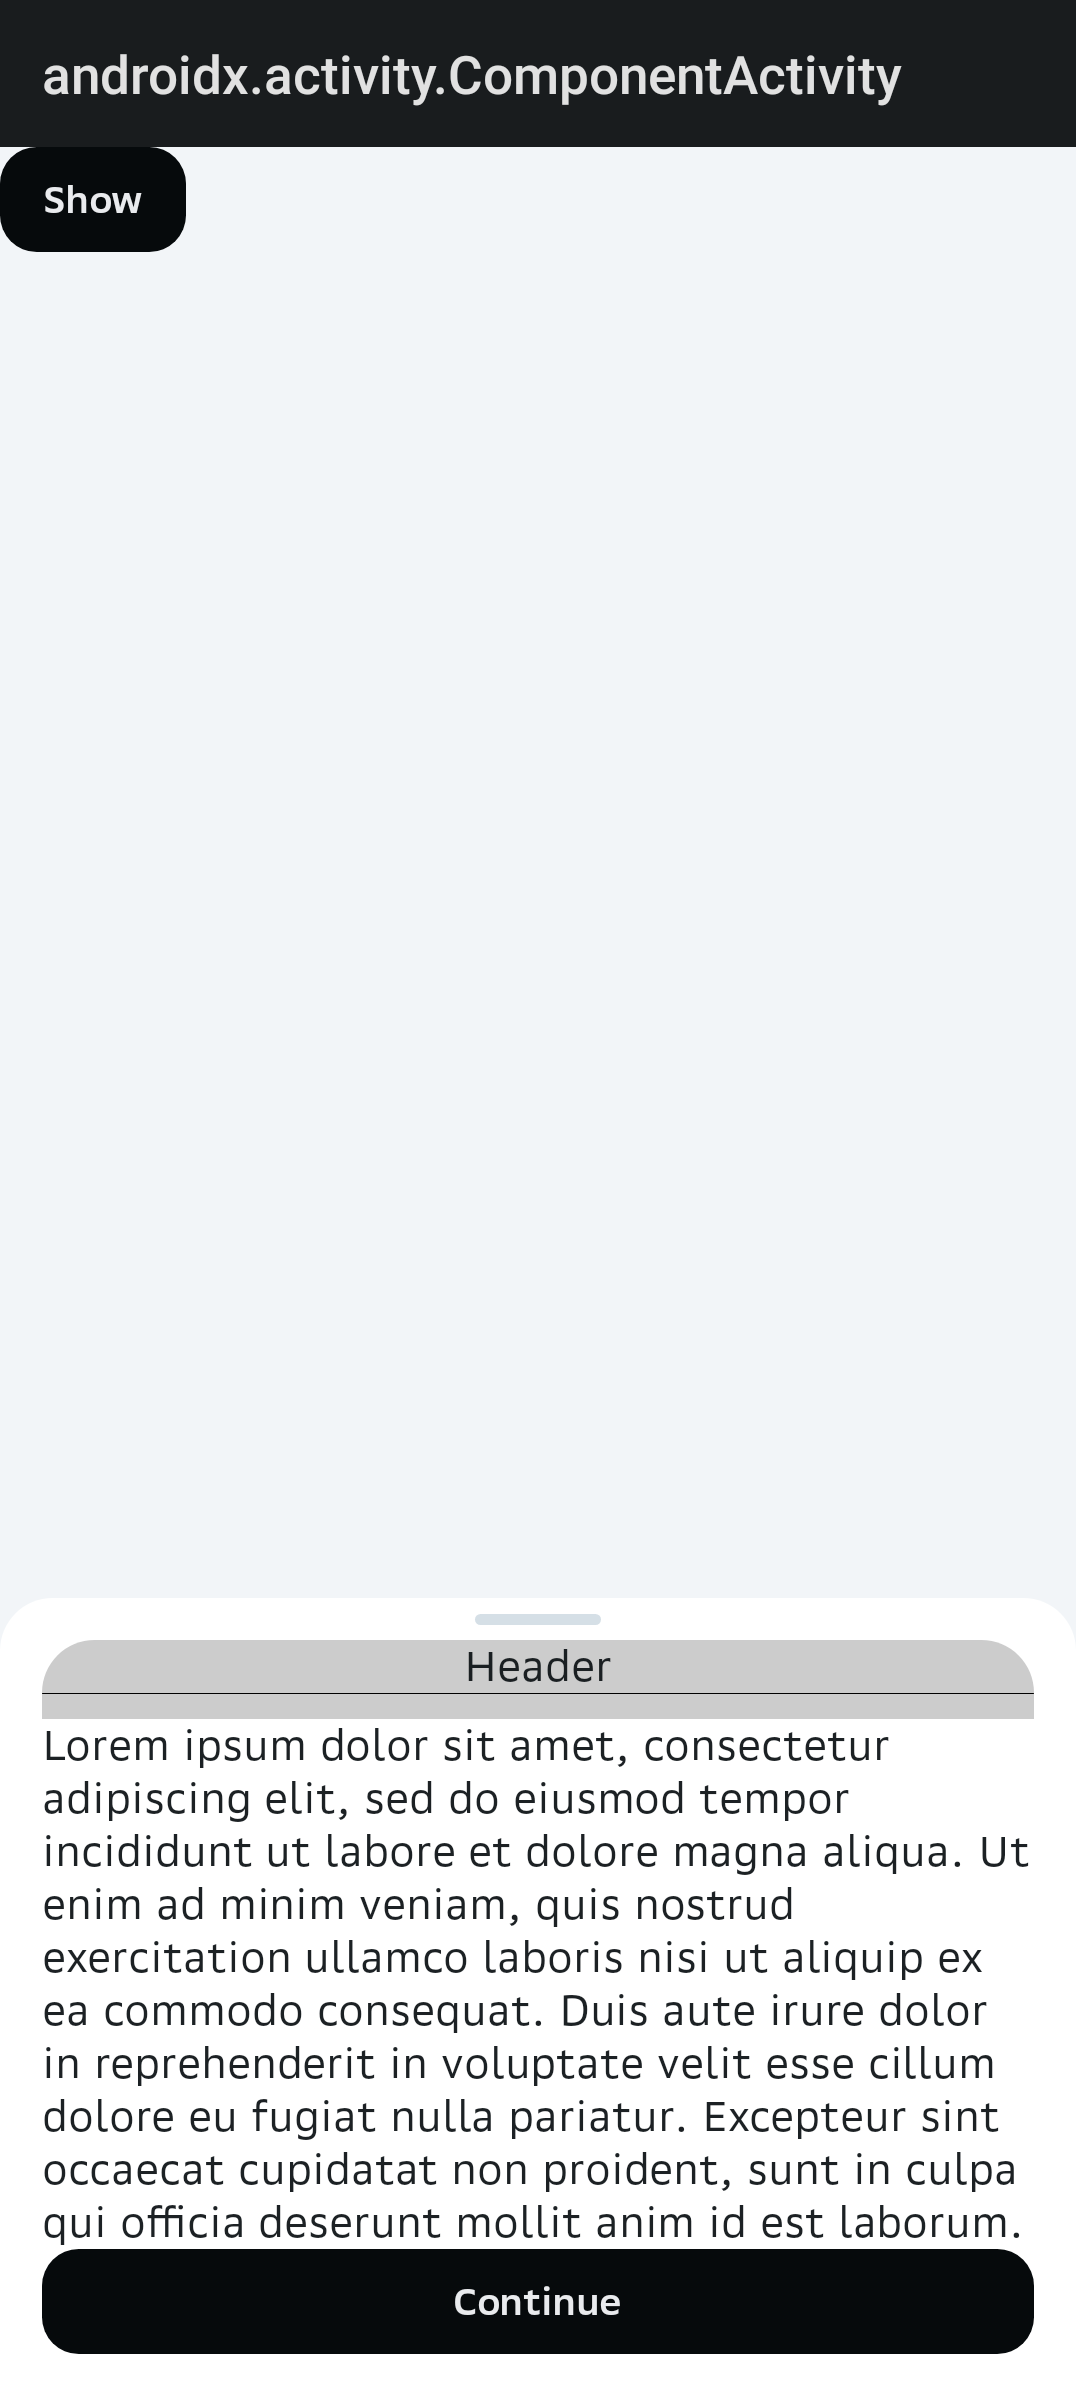
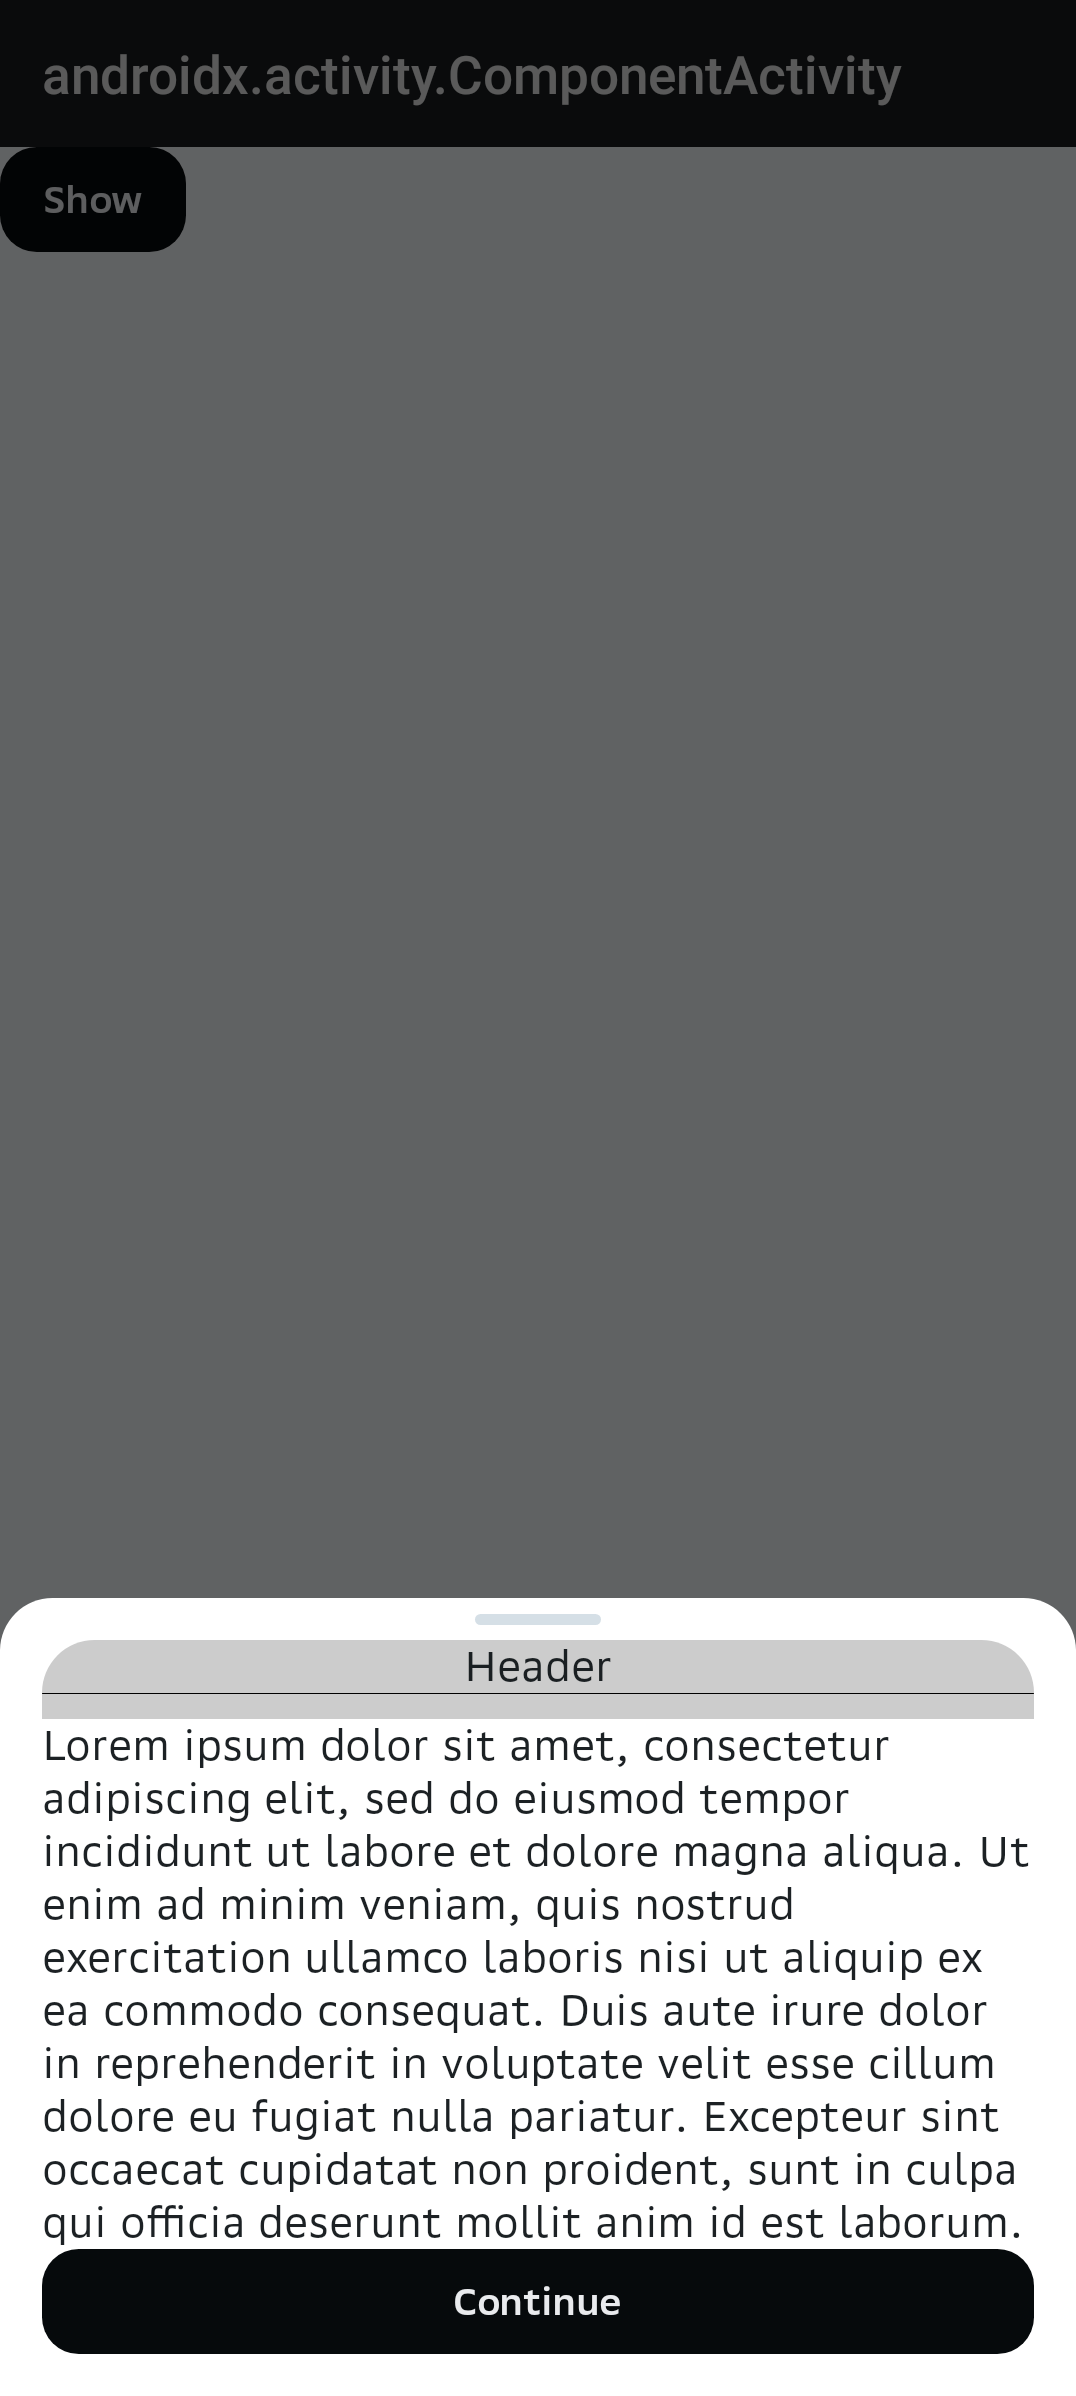
test-update-screenshots

diff --git a/tokens/sdds-finai-compose/src/androidUnitTest/kotlin/com/sdds/finai/ThemeUtils.kt b/tokens/sdds-finai-compose/src/androidUnitTest/kotlin/com/sdds/finai/ThemeUtils.kt
@@ -11,6 +11,7 @@ import androidx.compose.ui.platform.LocalView
 import androidx.compose.ui.test.junit4.AndroidComposeTestRule
 import androidx.core.view.WindowCompat
 import androidx.test.ext.junit.rules.ActivityScenarioRule
+import com.sdds.compose.uikit.fixtures.configureComposeResourcesForRobolectric
 import com.sdds.finai.theme.SddsFinAiTheme
 import com.sdds.finai.theme.darkSddsFinAiColors
 import com.sdds.finai.theme.darkSddsFinAiGradients
@@ -58,6 +59,7 @@ fun AndroidComposeTestRule<ActivityScenarioRule<ComponentActivity>, ComponentAct
     content: @Composable () -> Unit,
 ) {
     setContent {
+        configureComposeResourcesForRobolectric()
         ThemeSetup {
             content()
         }
